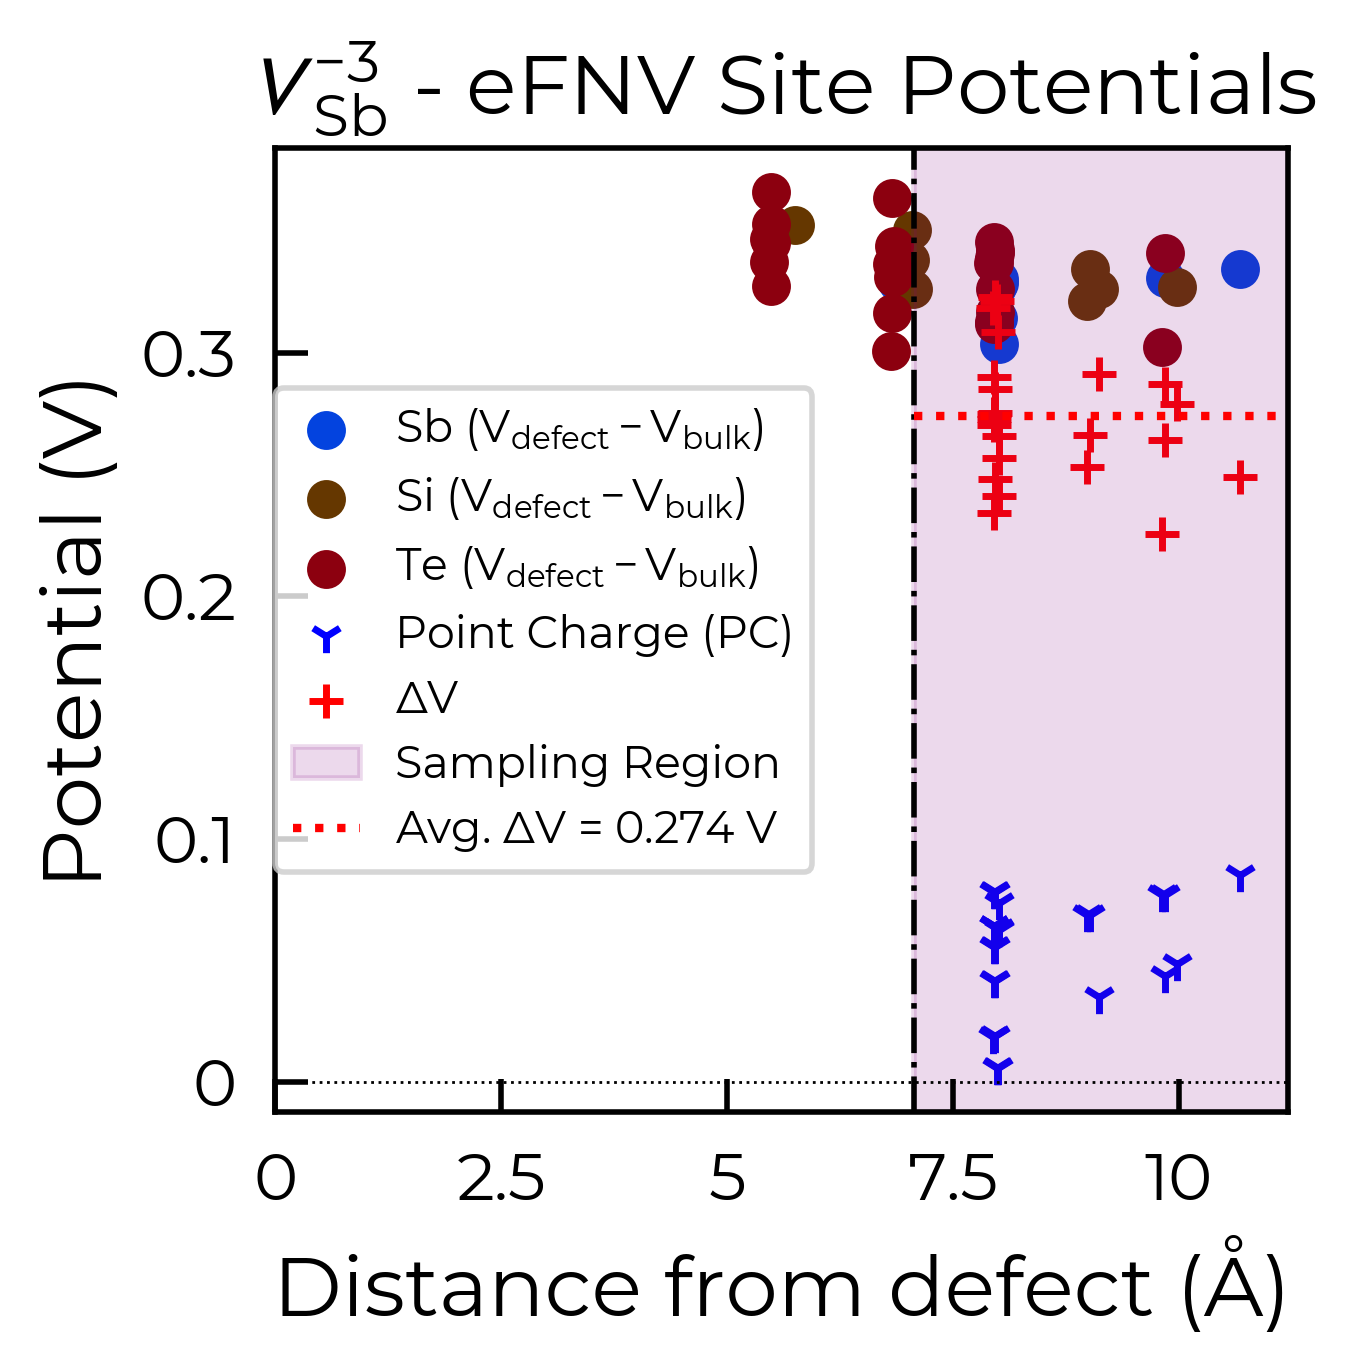
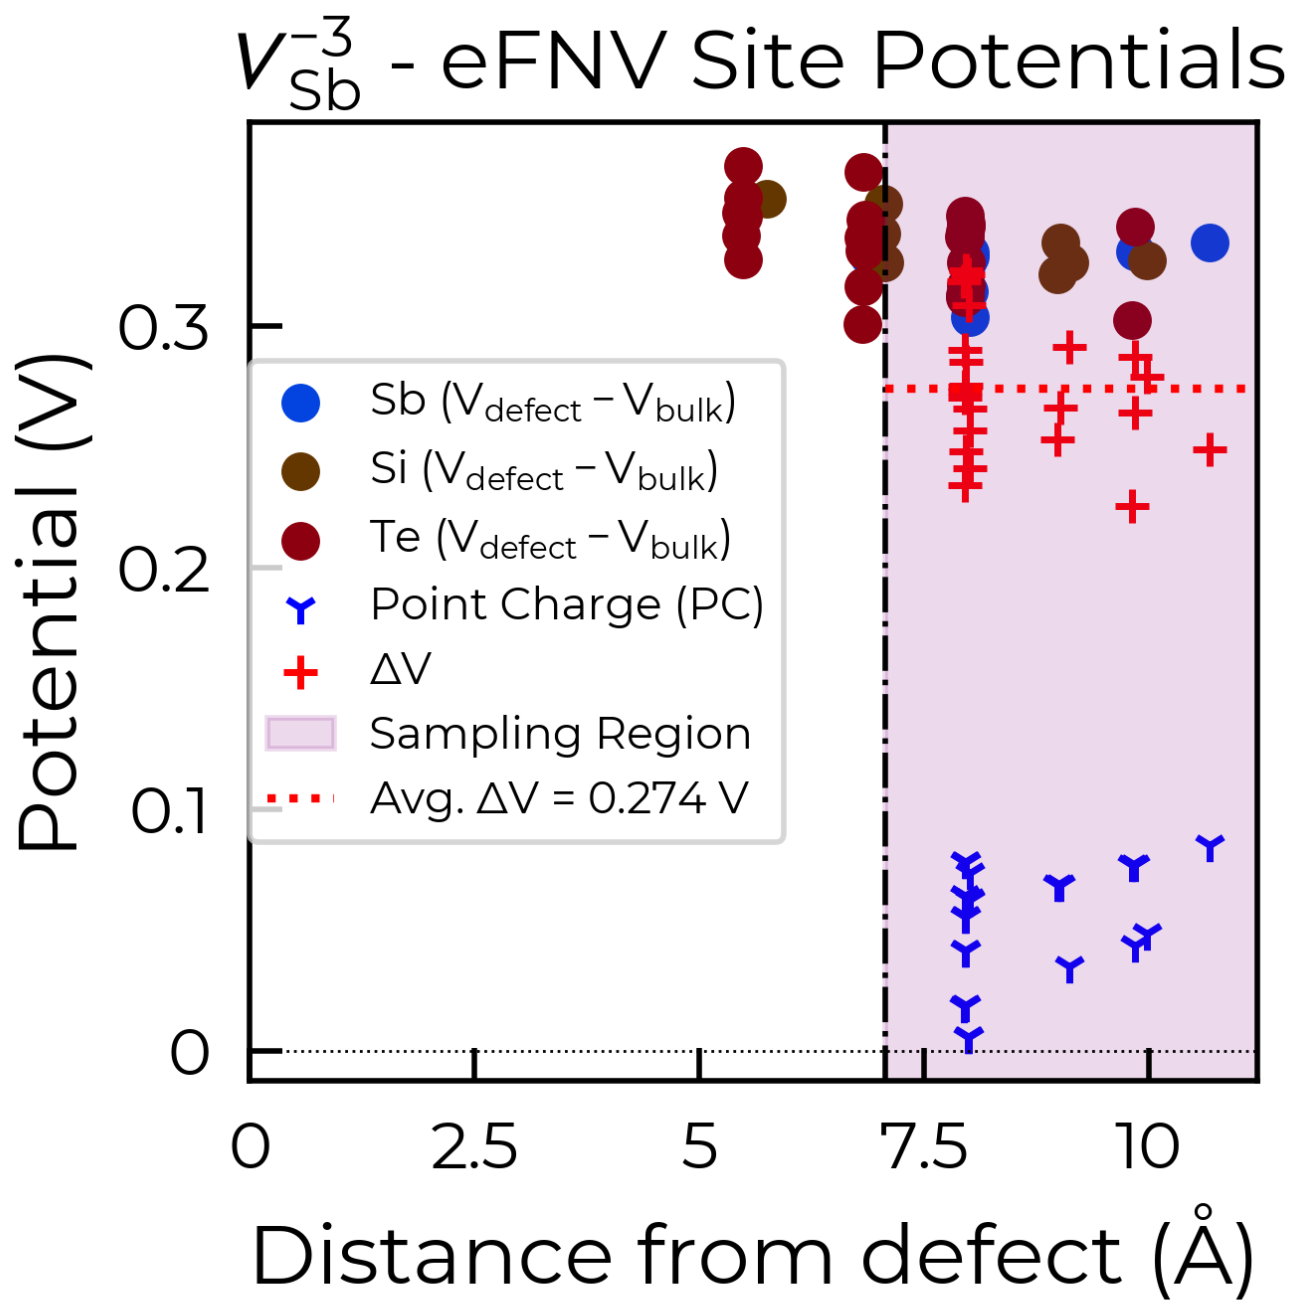
Pre-commit and formatting updates
Former-commit-id: 2b331d54142b6252269caf143803701b0f13752c

Changed region(s): [[0.0, 0.0, 1.0, 0.9992], [0.832, 0.3747, 0.8937, 0.4059], [0.8012, 0.7182, 0.832, 0.7494]]

diff --git a/doped/core.py b/doped/core.py
@@ -9,7 +9,7 @@ from dataclasses import asdict, dataclass, field
 from functools import reduce
 from itertools import combinations_with_replacement
 from multiprocessing import Process, Queue, current_process
-from typing import Any, Optional, Union
+from typing import TYPE_CHECKING, Any, Optional, Union
 
 import numpy as np
 from monty.serialization import dumpfn, loadfn
@@ -18,11 +18,16 @@ from pymatgen.analysis.defects.utils import CorrectionResult
 from pymatgen.core.composition import Composition, Element
 from pymatgen.core.structure import PeriodicSite, Structure
 from pymatgen.entries.computed_entries import ComputedEntry, ComputedStructureEntry
-from pymatgen.io.vasp.outputs import Locpot, Outcar, Vasprun, Procar
+from pymatgen.io.vasp.outputs import Locpot, Outcar, Procar, Vasprun
 from scipy.constants import value as constants_value
 from scipy.stats import sem
 
 from doped import _doped_obj_properties_methods
+
+if TYPE_CHECKING:
+    from pathlib import Path
+
+    from easyunfold.procar import Procar as EasyunfoldProcar
 
 _orientational_degeneracy_warning = (
     "The defect supercell has been detected to possibly have a non-scalar matrix expansion, "
@@ -227,7 +232,8 @@ class DefectEntry(thermo.DefectEntry):
         if self.calculation_metadata and self.calculation_metadata.get("eigenvalue_data"):
             for key in list(self.calculation_metadata["eigenvalue_data"].keys()):
                 self_dict["calculation_metadata"]["eigenvalue_data"][key] = self.calculation_metadata[
-                    "eigenvalue_data"][key].as_dict()
+                    "eigenvalue_data"
+                ][key].as_dict()
 
         return self_dict
 
@@ -573,14 +579,14 @@ class DefectEntry(thermo.DefectEntry):
         if self.calculation_metadata.get("eigenvalue_data") is not None and not force_reparse:
             return
 
+        from doped.utils.eigenvalues import _parse_procar, get_band_edge_info
         from doped.utils.parsing import (
-            get_procar,
-            get_vasprun,
             _get_output_files_and_check_if_multiple,
             _multiple_files_warning,
             get_outcar,
+            get_procar,
+            get_vasprun,
         )
-        from doped.utils.eigenvalues import _parse_procar, get_band_edge_info
 
         parsed_vr_procar_dict = {}
         for vr, procar, label in [(bulk_vr, bulk_procar, "bulk"), (defect_vr, defect_procar, "defect")]:
@@ -588,10 +594,13 @@ class DefectEntry(thermo.DefectEntry):
 
             # first try load procar data, to see if projected eigenvalues are available:
             if procar is not None:
-                procar = _parse_procar(procar)
+                procar = _parse_procar(procar)  # noqa: PLW2901
 
-            if procar is None and path is not None and (
-                    not isinstance(vr, Vasprun) or vr.projected_eigenvalues is None):
+            if (
+                procar is None
+                and path is not None
+                and (not isinstance(vr, Vasprun) or vr.projected_eigenvalues is None)
+            ):
                 # no defect procar, try parse from defect directory:
                 try:
                     procar_path, multiple = _get_output_files_and_check_if_multiple("PROCAR", path)
@@ -602,20 +611,23 @@ class DefectEntry(thermo.DefectEntry):
                             procar_path,
                             dir_type=label,
                         )
-                    procar = get_procar(procar_path)
+                    procar = get_procar(procar_path)  # noqa: PLW2901
 
                 except (FileNotFoundError, IsADirectoryError):
-                    procar = None
+                    procar = None  # noqa: PLW2901
 
             if vr is not None and not isinstance(vr, Vasprun):
-                vr = get_vasprun(vr, parse_projected_eigen=procar is None)
+                vr = get_vasprun(vr, parse_projected_eigen=procar is None)  # noqa: PLW2901
 
             if procar is not None and vr is None:  # then try take from vasprun dict:
                 with contextlib.suppress(Exception):
-                    vr = Vasprun.from_dict(
-                        self.calculation_metadata["run_metadata"][f"{label}_vasprun_dict"])
+                    vr = Vasprun.from_dict(  # noqa: PLW2901
+                        self.calculation_metadata["run_metadata"][f"{label}_vasprun_dict"]
+                    )
 
-            if vr is None or (procar is None and vr.projected_eigenvalues is None):  # try load from path:
+            if vr is None or (
+                procar is None and isinstance(vr, Vasprun) and vr.projected_eigenvalues is None
+            ):  # try load from path:
                 (
                     vr_path,
                     multiple,
@@ -627,7 +639,7 @@ class DefectEntry(thermo.DefectEntry):
                         vr_path,
                         dir_type=label,
                     )
-                vr = get_vasprun(vr_path, parse_projected_eigen=procar is None)
+                vr = get_vasprun(vr_path, parse_projected_eigen=procar is None)  # noqa: PLW2901
 
             if procar is None and vr.projected_eigenvalues is None:
                 raise FileNotFoundError(
@@ -695,11 +707,11 @@ class DefectEntry(thermo.DefectEntry):
         force_reparse: bool = False,
         **kwargs,
     ):
-        """
+        r"""
         Returns information about the band edge and in-gap electronic states
-        and their orbital character / localisation degree for the defect
-        entry, as well as a plot of the single-particle electronic eigenvalues
-        and their occupation (if ``plot=True``).
+        and their orbital character / localisation degree for the defect entry,
+        as well as a plot of the single-particle electronic eigenvalues and
+        their occupation (if ``plot=True``).
 
         Can be used to determine if a defect is adopting a perturbed host
         state (PHS / shallow state), see
@@ -807,7 +819,7 @@ class DefectEntry(thermo.DefectEntry):
 
         with warnings.catch_warnings():
             warnings.filterwarnings("ignore")
-            bes, fig = get_eigenvalue_analysis(self, filename, **kwargs)
+            bes, fig = get_eigenvalue_analysis(self, filename=filename, **kwargs)
 
         return (bes, fig) if plot else bes
 

diff --git a/doped/utils/eigenvalues.py b/doped/utils/eigenvalues.py
@@ -5,33 +5,35 @@ Contains modified versions of functions from pydefect (https://github.com/kumaga
 and vise (https://github.com/kumagai-group/vise), to avoid requiring additional files (i.e. ``PROCAR``s).
 """
 
+# suppress pydefect INFO messages
+import logging
 import os
+import warnings
 from collections import defaultdict
 from importlib.metadata import version
 from itertools import zip_longest
-from typing import Any, Optional, Union
-import warnings
+from typing import TYPE_CHECKING, Any, Optional, Union
 
 import matplotlib.pyplot as plt
 import numpy as np
-
 from pymatgen.core import Element, Species
 from pymatgen.electronic_structure.core import Spin
-from pymatgen.io.vasp.outputs import Outcar, Vasprun, Procar
 from pymatgen.entries.computed_entries import ComputedStructureEntry
+from pymatgen.io.vasp.outputs import Outcar, Procar, Vasprun
 from shakenbreak.plotting import _install_custom_font
 
-from doped.utils.plotting import _get_backend
 from doped import _ignore_pmg_warnings
 from doped.core import DefectEntry
 from doped.utils.parsing import get_procar
+from doped.utils.plotting import _get_backend
 
+if TYPE_CHECKING:
+    from pathlib import Path
 
-# suppress pydefect INFO messages
-import logging
+    from easyunfold.procar import Procar as EasyunfoldProcar
+    from pydefect.analyzer.make_defect_structure_info import DefectStructureInfo
 
 try:
-    from vise.analyzer.vasp.band_edge_properties import VaspBandEdgeProperties
     import pydefect.analyzer.make_band_edge_states
     import pydefect.cli.vasp.make_band_edge_orbital_infos as make_bes
     from pydefect.analyzer.band_edge_states import BandEdgeOrbitalInfos, OrbitalInfo, PerfectBandEdgeState
@@ -45,6 +47,8 @@ try:
     from pydefect.defaults import defaults
     from pydefect.util.structure_tools import Coordination, Distances
     from vise import user_settings
+    from vise.analyzer.vasp.band_edge_properties import VaspBandEdgeProperties
+
     user_settings.logger.setLevel(logging.CRITICAL)
 
 except ImportError as exc:
@@ -190,8 +194,8 @@ def get_band_edge_info(
 ):
     """
     Generate metadata required for performing eigenvalue & orbital analysis,
-    specifically ``pydefect`` ``BandEdgeOrbitalInfos``, and ``EdgeInfo`` objects
-    for the bulk VBM and CBM.
+    specifically ``pydefect`` ``BandEdgeOrbitalInfos``, and ``EdgeInfo``
+    objects for the bulk VBM and CBM.
 
     See https://doped.readthedocs.io/en/latest/Tips.html#perturbed-host-states.
 
@@ -224,6 +228,7 @@ def get_band_edge_info(
             calculation. Not required if the supplied ``bulk_vr`` was
             parsed with ``parse_projected_eigen = True``.
             Default is ``None``.
+
     Returns:
         ``pydefect`` ``BandEdgeOrbitalInfos``, and ``EdgeInfo`` objects
         for the bulk VBM and CBM.
@@ -269,6 +274,7 @@ def get_band_edge_info(
     Distances.distances = _orig_method_dist
 
     from pydefect.analyzer.band_edge_states import logger
+
     logger.setLevel(logging.CRITICAL)  # quieten unnecessary eigenvalue shift INFO message
 
     if bulk_procar is not None:
@@ -314,7 +320,7 @@ def get_eigenvalue_analysis(
     bulk_outcar: Optional[Union[str, "Path", Outcar]] = None,
     force_reparse: bool = False,
 ):
-    """
+    r"""
     Get eigenvalue & orbital info (with automated classification of PHS states)
     for the band edge and in-gap electronic states for the input defect entry /
     calculation outputs, as well as a plot of the single-particle electronic
@@ -415,9 +421,12 @@ def get_eigenvalue_analysis(
     """
     if defect_entry is None:
         if not all([bulk_vr, defect_vr, bulk_procar, defect_procar]):
-            raise ValueError("If `defect_entry` is not provided, then all of `bulk_vr`, `defect_vr`, "
-                                "`bulk_procar`, and `defect_procar` must be provided!")
+            raise ValueError(
+                "If `defect_entry` is not provided, then all of `bulk_vr`, `defect_vr`, "
+                "`bulk_procar`, and `defect_procar` must be provided!"
+            )
         from doped.analysis import defect_from_structures
+
         (
             defect,
             defect_site,

diff --git a/doped/analysis.py b/doped/analysis.py
@@ -11,7 +11,7 @@ import contextlib
 import os
 import warnings
 from multiprocessing import Pool, Queue, cpu_count
-from typing import Optional, Union
+from typing import TYPE_CHECKING, Optional, Union
 
 import numpy as np
 from filelock import FileLock
@@ -22,7 +22,7 @@ from pymatgen.analysis.structure_matcher import ElementComparator, StructureMatc
 from pymatgen.core.sites import PeriodicSite
 from pymatgen.ext.matproj import MPRester
 from pymatgen.io.vasp.inputs import Poscar
-from pymatgen.io.vasp.outputs import Vasprun, Procar, Outcar
+from pymatgen.io.vasp.outputs import Outcar, Procar, Vasprun
 from tqdm import tqdm
 
 from doped import _doped_obj_properties_methods, _ignore_pmg_warnings
@@ -47,8 +47,8 @@ from doped.utils.parsing import (
     get_locpot,
     get_orientational_degeneracy,
     get_outcar,
-    get_vasprun,
     get_procar,
+    get_vasprun,
 )
 from doped.utils.plotting import format_defect_name
 from doped.utils.symmetry import (
@@ -57,6 +57,9 @@ from doped.utils.symmetry import (
     _get_sga,
     point_symmetry_from_defect_entry,
 )
+
+if TYPE_CHECKING:
+    from easyunfold.procar import Procar as EasyunfoldProcar
 
 
 def _custom_formatwarning(
@@ -909,12 +912,15 @@ class DefectsParser:
             if parsing_warnings:
                 warnings.warn("\n".join(parsing_warnings))
 
-            for warning, defect_list in duplicate_warnings.items():
+            for warning, defect_name_list in duplicate_warnings.items():
                 defect_list = [
                     defect_name
-                    for defect_name in defect_list
-                    if defect_name and all(defect_name not in defects_with_errors for
-                                           defects_with_errors in parsing_errors_dict.values())
+                    for defect_name in defect_name_list
+                    if defect_name
+                    and all(
+                        defect_name not in defects_with_errors
+                        for defects_with_errors in parsing_errors_dict.values()
+                    )
                 ]  # remove None and don't warn if later encountered parsing error (already warned)
                 if defect_list:
                     warnings.warn(f"Defects: {defect_list} each encountered the same warning:\n{warning}")
@@ -1411,7 +1417,7 @@ class DefectParser:
                 ``easyunfold``/``pymatgen`` ``Procar`` object, for the reference bulk
                 supercell calculation if already loaded (can be supplied to expedite
                 parsing). Default is ``None``.
-            bulk_procar (Outcar):
+            bulk_outcar (Outcar):
                 ``pymatgen`` ``Outcar`` object, for the reference bulk supercell
                 calculation if already loaded (can be supplied to expedite parsing).
                 Default is ``None``.

diff --git a/doped/utils/parsing.py b/doped/utils/parsing.py
@@ -8,7 +8,7 @@ import os
 import re
 import warnings
 from collections import defaultdict
-from typing import Optional, Union
+from typing import TYPE_CHECKING, Optional, Union
 
 import numpy as np
 from monty.serialization import loadfn
@@ -16,11 +16,14 @@ from pymatgen.core.periodic_table import Element
 from pymatgen.core.structure import PeriodicSite, Structure
 from pymatgen.electronic_structure.core import Spin
 from pymatgen.io.vasp.inputs import UnknownPotcarWarning
-from pymatgen.io.vasp.outputs import Locpot, Outcar, Vasprun, _parse_vasp_array, Procar
+from pymatgen.io.vasp.outputs import Locpot, Outcar, Procar, Vasprun, _parse_vasp_array
 from pymatgen.util.coord import pbc_diff
 
 from doped import _ignore_pmg_warnings
 from doped.core import DefectEntry
+
+if TYPE_CHECKING:
+    from pathlib import Path
 
 
 def find_archived_fname(fname, raise_error=True):
@@ -126,11 +129,12 @@ def get_outcar(outcar_path: Union[str, "Path"]):
         ) from None
     return outcar
 
+
 def get_procar(procar_path: Union[str, "Path"]):
     """
-    Read the ``PROCAR(.gz)`` file as an ``easyunfold`` ``Procar``
-    object (if ``easyunfold`` installed), else a ``pymatgen`` ``Procar``
-    object (doesn't support SOC).
+    Read the ``PROCAR(.gz)`` file as an ``easyunfold`` ``Procar`` object (if
+    ``easyunfold`` installed), else a ``pymatgen`` ``Procar`` object (doesn't
+    support SOC).
 
     If ``easyunfold`` installed, the ``Procar`` will be parsed with
     ``easyunfold`` and then the ``proj_data`` attribute will be converted
@@ -145,7 +149,7 @@ def get_procar(procar_path: Union[str, "Path"]):
     easyunfold_installed = True  # first try loading with easyunfold
     try:
         from easyunfold.procar import Procar as EasyunfoldProcar
-    except ImportError as exc:
+    except ImportError:
         easyunfold_installed = False
 
     if easyunfold_installed:
@@ -160,9 +164,9 @@ def get_procar(procar_path: Union[str, "Path"]):
             procar = Procar(procar_path)
         except IndexError as exc:  # SOC error
             raise ValueError(
-                "PROCAR from a SOC calculation was provided, but `easyunfold` is not installed and `pymatgen` "
-                "does not support SOC PROCAR parsing! Please install `easyunfold` with `pip install "
-                "easyunfold`."
+                "PROCAR from a SOC calculation was provided, but `easyunfold` is not installed and "
+                "`pymatgen` does not support SOC PROCAR parsing! Please install `easyunfold` with `pip "
+                "install easyunfold`."
             ) from exc
 
     return procar

diff --git a/docs/Tips.rst b/docs/Tips.rst
@@ -184,11 +184,11 @@ Below are the two resulting charge correction plots (using ``defect_region_radiu
 ``excluded_indices`` on the right):
 
 .. image:: Sb2Si2Te6_v_Sb_-3_eFNV_plot_region_radius.png
-    :width: 320px
+    :height: 320px
     :align: left
 
 .. image:: Sb2Si2Te6_v_Sb_-3_eFNV_plot_no_intralayer.png
-    :width: 320px
+    :height: 320px
     :align: right
 
 Perturbed Host States (Shallow Defects)
@@ -246,7 +246,7 @@ supercells and plotting the charge density. Important terms include:
 1. ``P-ratio``: The ratio of the summed projected orbital contributions of the defect & neighbouring sites to the total sum of orbital contributions from all atoms to that electronic state. A value close to 1 indicates a localised state.
 2. ``Occupation``: Occupation of the electronic state / orbital.
 3. ``vbm has acceptor phs``/``cbm has donor phs``: Whether a PHS has been automatically identified. Depends on how VBM-like/CBM-like the defect states are and the occupancy of the state. ``(X vs. 0.2)`` refers to the hole/electron occupancy at the band edge vs the default threshold of 0.2 for flagging as a PHS (but you should use your own judgement of course).
-4. ``Localized Orbital(s)``: Information about the localised defects states.
+4. ``Localized Orbital(s)``: Information about localised defect states, if present.
 
 .. code-block:: python
 
